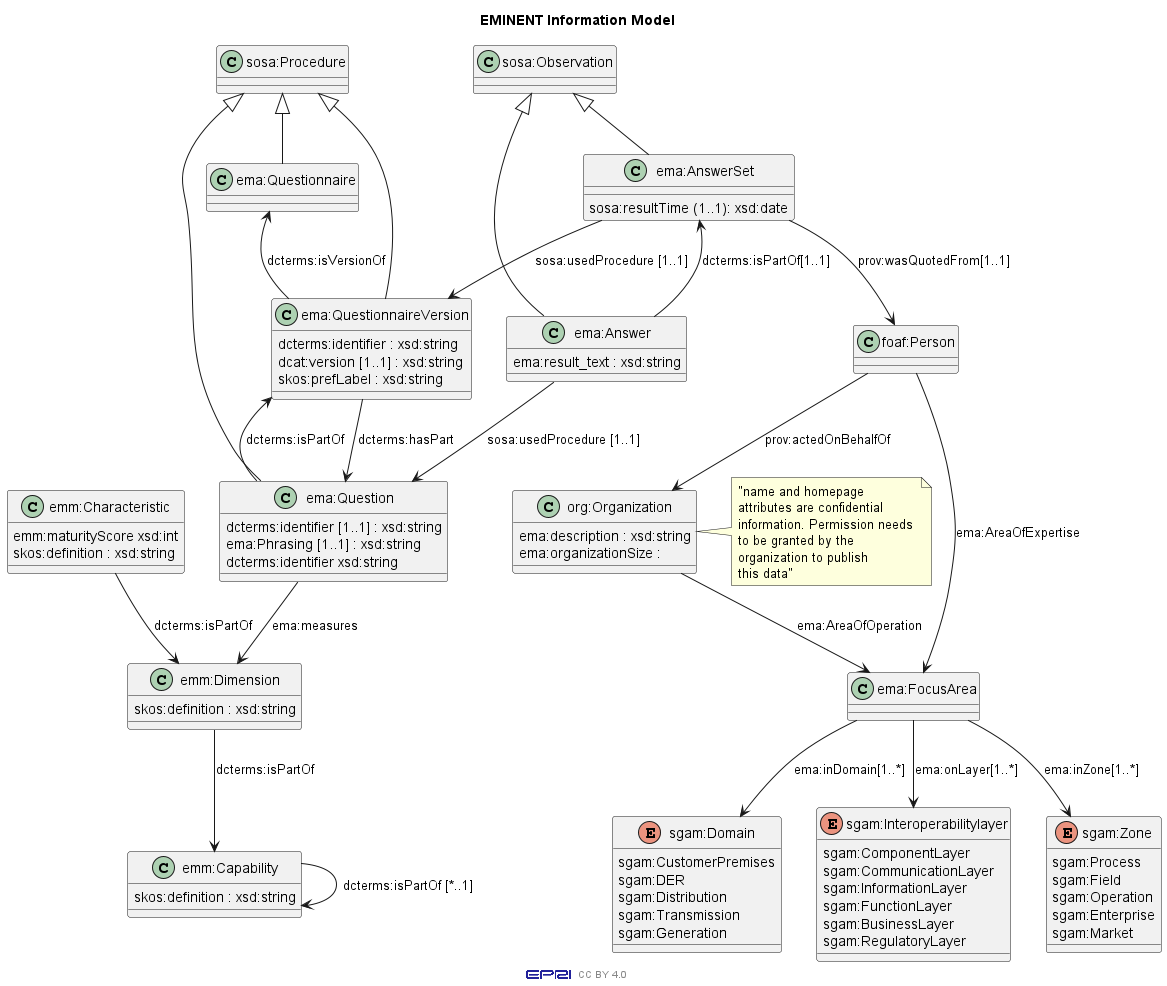
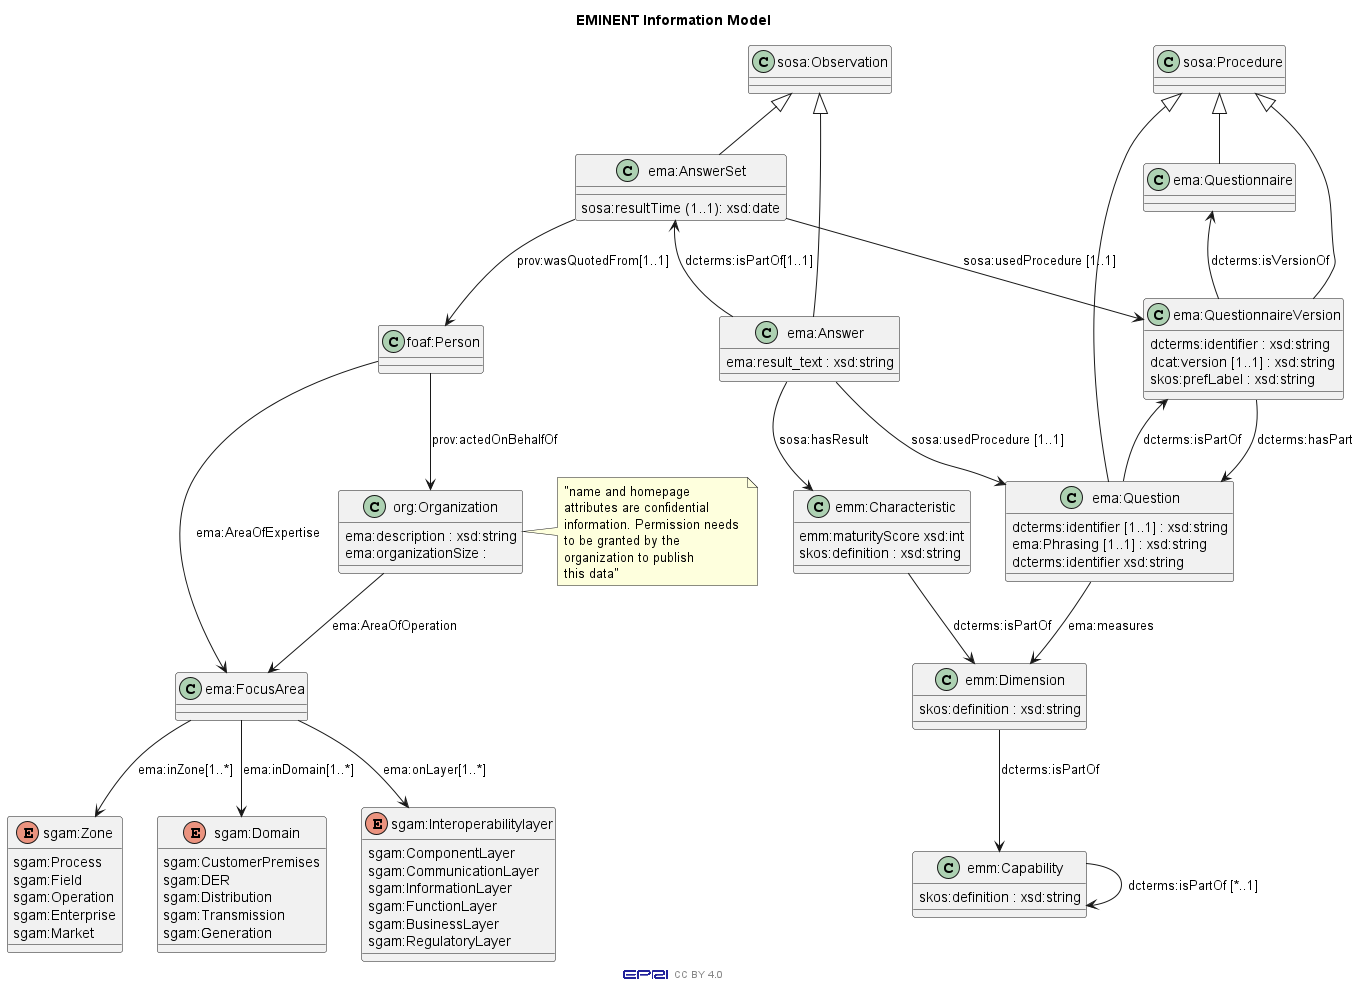
added diagrams and started information model documentation

diff --git a/README.md b/README.md
@@ -81,12 +81,80 @@ During the int:net project, we found the 3rd option to be most effective. During
 
 ## How to perform a maturity tracking assessment
 
+After at least 2 maturity assessments have been performed on the same community (with sufficient time in between the studies), the communtie can request a maturity tracking report. This report summarizes the previous results and summarizes the change in maturity across the capabilities and dimensions over time.
+
+The process to do so looks as follows:
+
 ![Maturity tracking assessment process](/DocumentationResources/ProcessesModels/TrackMaturityProcess/Track%20Maturity%20Process.png)
 
+In a nutshell:
+- the community requests a maturity tracking study
+- a researchers gathers all public and/or confidendial response data
+- the researcher performs a data analysis based on the communties needs and creates a report 
+
+The researcher may have to reject certain older studies if insufficient people participated (as determined by requirements the community expressed for the study) or if the questionnaire changes sufficiently that the answers given previously cannot be compared any longer to answers given in more recent studies. 
+
+---
+
+NB: this is a senario that we intend to avoid for the public survey. But if a survey was modified for a prarticular study, this may become the case.
+
+---
 
 ## The database and how to use it
 
+This database consists of 3 parts:
 
+1) Maturity Model and (over time) its versions
+    - found in ```./EminentMaturityModel/```
+2) The Survey and (over time) its versions
+    - found in ```./EminentQuestionnaire/```
+3) The responses to the questionnaire for all studies
+    - found in ```./EminentResponses/```
+
+These artifacts are published separately as they have a different change cycle. The maturity model and the questionnaire should hardly change over time, but if a change does occur, it might affect the interpretation of the response data. The responses data will change more regurlarly as new studies are being performed.
+
+When these artifacts are combined into a single graph, they jointly paint a picture of the maturity of different communtities that participated in the studies. In this section, well go over informationsmodels (rdfs/owl ontologies) that describe the data in the different artifacts, and in the final part we'll show how all these models fit together.
+
+### EMINENT Maturity Model
+
+![Data model of the maturity model](./DocumentationResources/InformationModels/MaturityModelProfile/Maturity%20Model%20Profile.png)
+
+The maturity model is pretty straight forward.
+
+#### emm:Capability
+
+The emm:Capability class is meant to represent business capabilities as defined in [Archimate](https://pubs.opengroup.org/architecture/archimate3-doc/ch-Strategy-Layer.html). As these can be hierarchical , the dcterms:isPartOf relationsship is used to link sub-capabilities to their super-capabilities. The skos:definition attribute is used to define the capability in human readable format
+
+#### emm:Dimension
+
+Within EMINENT we look at each capability across 4 dimensions:
+- Process
+- People and organization
+- Information
+- Resources
+
+This class represents the individual dimension for each capability. For example: the information Dimension of Community Growth would be an element of this class. The information Dimension of Market Creation would be a different ([owl:differentFrom](https://www.w3.org/TR/2004/REC-owl-features-20040210/#differentFrom)) element in this class.
+
+A dimension is linked to a capability using dcterms:isPartOf, and the human readable definition is given using skos:definition.
+
+#### emm:Characteristic
+
+
+### EMINENT Maturity Assessment 
+
+![Information model of the maturity assessment](./DocumentationResources/InformationModels/QuestionaireProfile/Questionaire%20Profile.png)
+
+
+### EMINENT Responses
+
+![Information model of the EMINENT Responses](./DocumentationResources/InformationModels/AnswersetProfile/Answer%20Set%20Profile.png)
+
+
+### The EMINENT Vocabulary
+
+Combining the different models we have seen so far, we get a picture of what the totality of the information content looks like. This can be found in the diagram below:
+
+![Eminent Vocabulary](./DocumentationResources/InformationModels/EminentVocabulary/Eminent%20Vocabulary.png)
 
 ## How we apply the FAIR principles
 
